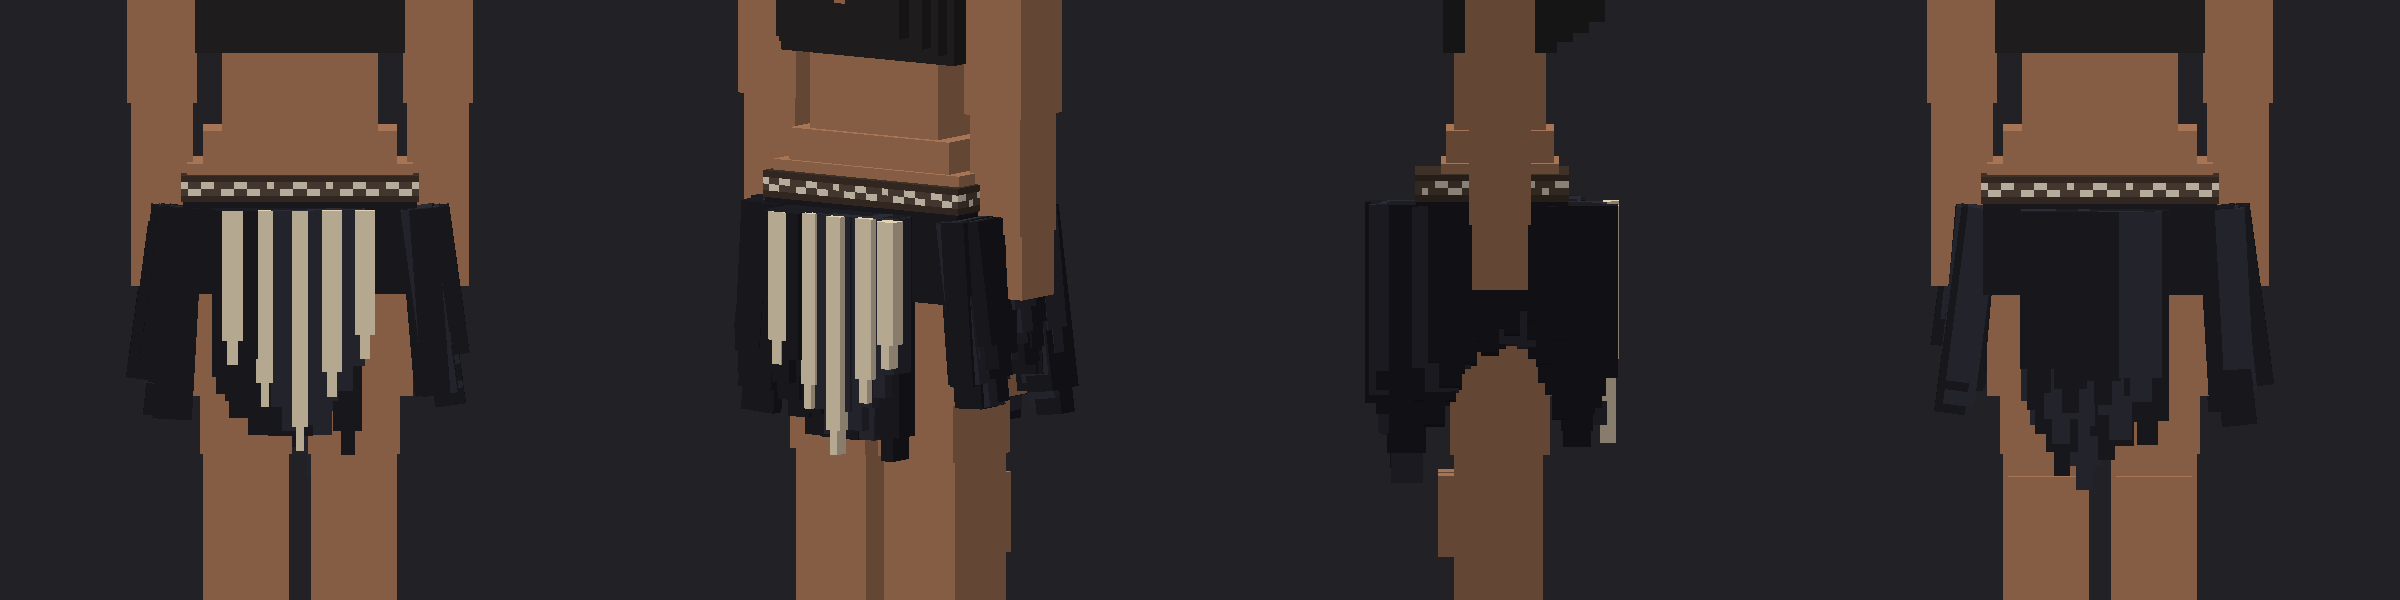
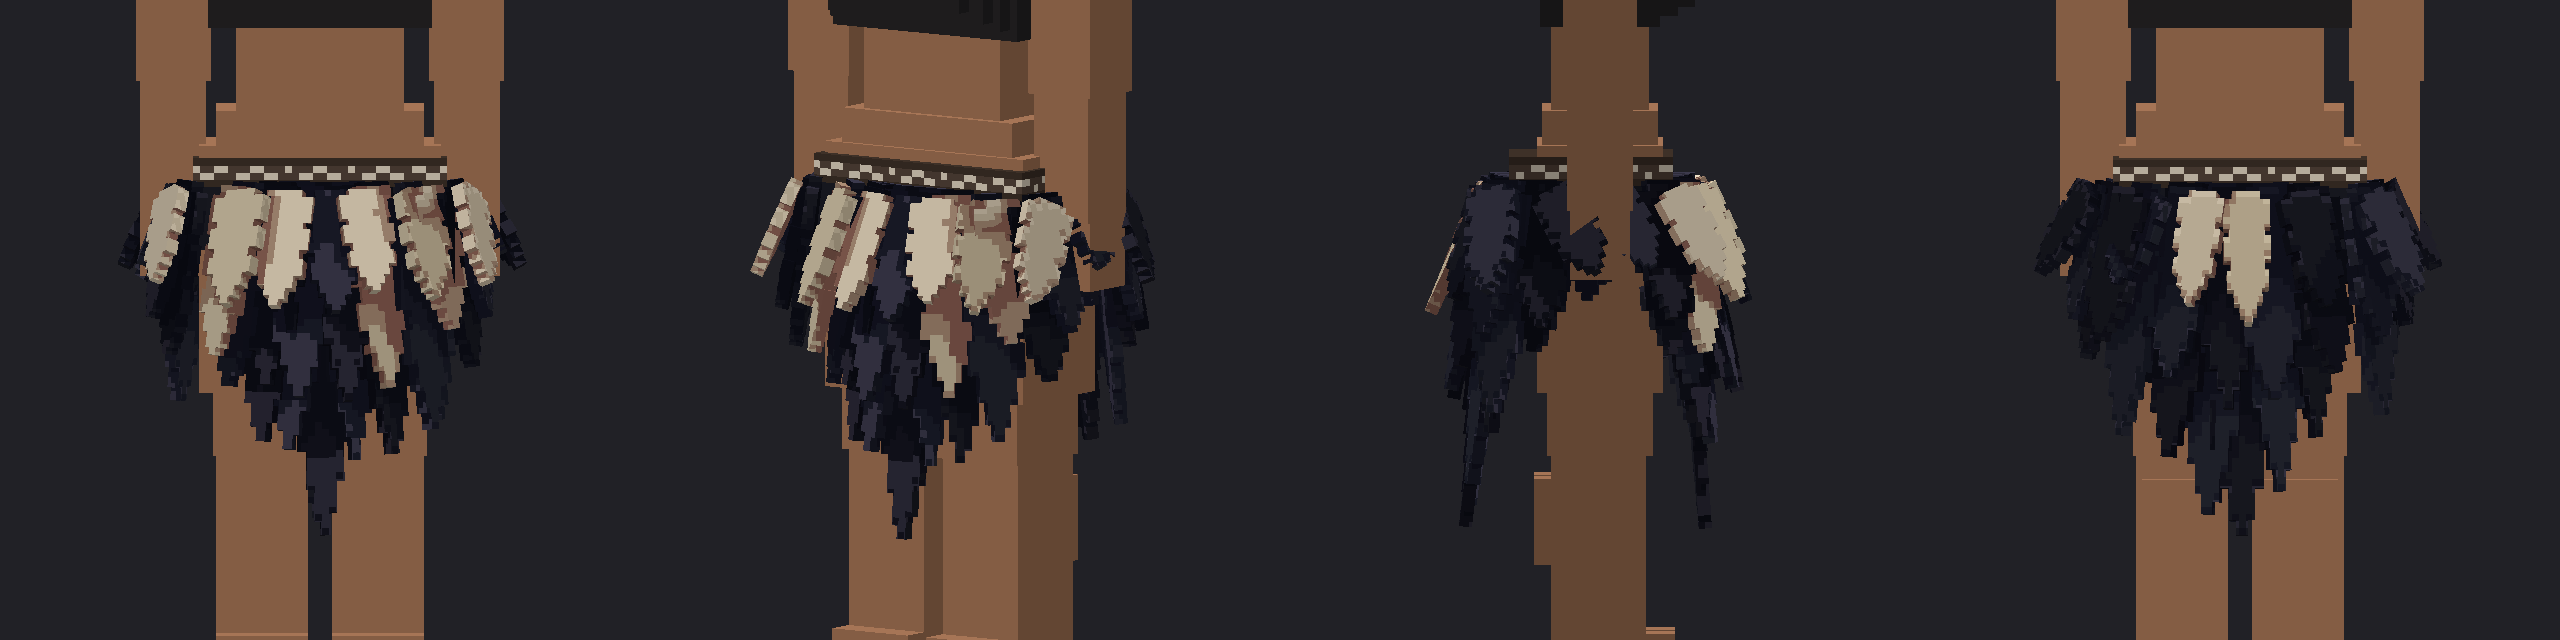
Kemira: falda tribal rehecha con plumas de silueta escalonada en tres hileras
Claude-Session: https://claude.ai/code/session_01JLSuk79QgXUucDMTiBYitK

diff --git a/taller/personajes/kemira.py b/taller/personajes/kemira.py
@@ -279,72 +279,89 @@ def ropa(p, L):
     falda(p, L)
 
 
-CARBON, GRIS_OSCURO, BEIGE = "#1D1D24", "#2C2C36", "#E3D2B4"
+OSCUROS = ("#1C1D26", "#272935")                               # negro azulado de la hoja, en dos tonos
+BEIGES = ("#E0D0B4", "#D2C1A3")
+CARBON = OSCUROS[0]
+
+# silueta de una pluma: (desde que fraccion del largo, medio ancho / ancho), de arriba hacia la punta.
+# Cada tramo es recto y entre tramos hay un escalon: bordes de pixel, con muescas a los costados.
+NIVELES = ((0.00, 0.30), (0.06, 0.50), (0.28, 0.38), (0.34, 0.50), (0.52, 0.36), (0.60, 0.44), (0.74, 0.30),
+           (0.85, 0.18), (0.94, 0.08))
+
+
+def perfil_pluma(ancho, largo, k):
+    """Contorno 2D (x, y) de una pluma colgando desde (0, 0) hasta la punta en (0, -largo), con escalones. Los
+    dos lados tienen las muescas un poco corridas (k), asi ninguna pluma es igual a otra."""
+    lados = []
+    for s in (1, -1):
+        corre = 0.05 * (_azar(k * 2 + (s > 0) + 2000) - 0.5)
+        pts = []
+        niveles = [(f if i in (0, 1) else min(0.97, f + corre), hw) for i, (f, hw) in enumerate(NIVELES)]
+        for i, (f, hw) in enumerate(niveles):
+            f2 = niveles[i + 1][0] if i + 1 < len(niveles) else 1.0
+            pts += [(s * hw * ancho, -f * largo), (s * hw * ancho, -f2 * largo)]
+        lados.append(pts)
+    derecha, izquierda = lados
+    return derecha + [(0.0, -largo)] + izquierda[::-1]
+
+
+def pluma_3d(base, ancho, largo, k, angulo, abre, abanico=0.0, grosor=0.45):
+    """Malla de una pluma: el contorno extruido (grosor), colgando desde 'base'. angulo: donde esta alrededor de la
+    cadera (180 adelante, 0 atras, 90 a su derecha); abre: cuanto se separa la punta del cuerpo; abanico: giro en
+    su propio plano (las de arriba en las caderas se abren en abanico)."""
+    from .. import malla as geo
+    m = geo.extruir(perfil_pluma(ancho, largo, k), -grosor / 2, grosor / 2)
+    if abanico:
+        m = geo.girar(m, (0, 0, abanico))
+    m = geo.girar(m, (abre, angulo - 180, 0))
+    return geo.mover(m, base)
+
+
+def borde_cadera(t):
+    """Punto del borde del cinturon y su angulo para t de 0 a 1 (vuelta entera: empieza adelante al medio)."""
+    ang = 180 + 360 * t
+    a = math.radians(ang)
+    sx, sz = math.sin(a), math.cos(a)
+    r = 1.0 / max(abs(sx) / 4.45, abs(sz) / (3.2 if sz > 0 else 2.6))      # rectangulo de la cadera
+    return (r * sx, r * sz), ang
 
 
 def falda(p, L):
-    """Falda tribal de plumas como la guia: cinturon de cuero con triangulos; base oscura de 3 a 4 de alto con el
-    borde roto; muchas tiras oscuras (carbon y gris) alrededor de toda la cadera en tres profundidades, largas al
-    centro de adelante y de atras, cortas a los costados y algo abiertas hacia afuera, con punta escalonada; plumas
-    beige mas finas mezcladas sobre todo al frente. La silueta es irregular: no es un cono ni termina recta."""
+    """Falda tribal de plumas como la hoja y la guia: cinturon de cuero con triangulos y una base oscura; debajo,
+    tres hileras de plumas con silueta escalonada (anchas, con muescas, en punta) que se enciman: atras las negras
+    largas, que bajan en punta al centro de adelante y de atras; al medio, medianas negras y beige; arriba, cortas
+    que en las caderas se abren en abanico. Las beige van por delante, sobre todo al frente. A los costados son mas
+    cortas y dejan ver el muslo."""
     g = "Body/falda"
     color_ = lambda col: (lambda t: hex_(col))
     p.caja(g, "cinturon", (-4.4, L + 0.8, -2.55), (4.4, L + 1.8, 3.15), tejido, dens=D, luz=False)
-    p.caja(g, "base", (-4.35, L - 2.6, -2.5), (4.35, L + 0.8, 3.1), color_(CARBON), dens=D, luz=False)
-
-    def tira(nombre, x, z, ancho, grueso, largo, col, de_lado, abre=0.0):
-        """Tira colgante con punta escalonada. de_lado: el ancho va en Z (tiras de los costados)."""
-        y1 = L + 0.6
-        sx, sz = (grueso, ancho) if de_lado else (ancho, grueso)
-        rot = (abre, 0, 0) if de_lado and False else ((0, 0, abre) if de_lado else (0, 0, 0))
-        p.caja(g, nombre, (x - sx / 2, y1 - largo, z - sz / 2), (x + sx / 2, y1, z + sz / 2), color_(col),
-               rot=rot, piv=(x, y1, z), dens=D, luz=False)
-        px, pz = (sx, sz * 0.5) if de_lado else (sx * 0.5, sz)
-        p.caja(g, nombre + "_p", (x - px / 2, y1 - largo - 0.9, z - pz / 2), (x + px / 2, y1 - largo, z + pz / 2),
-               color_(col), rot=rot, piv=(x, y1, z), dens=D, luz=False)
-
+    p.caja(g, "base", (-4.3, L - 1.4, -2.45), (4.3, L + 0.8, 3.05), color_(CARBON), dens=D, luz=False)
+    y0 = L + 1.0
+    hileras = (                                                    # (cuantas, fuera, largo centro, largo costado, abre, beige)
+        (22, 0.05, 11.0, 4.4, 4, 0.0),
+        (18, 0.40, 7.4, 3.8, 10, 0.45),
+        (16, 0.75, 4.4, 3.0, 20, 0.5),
+    )
     k = 0
-    for capa in range(3):
-        n = 34 - 6 * capa
+    for h, (n, fuera, l_centro, l_lado, abre, beige) in enumerate(hileras):
         for i in range(n):
-            a = 2 * math.pi * (i + 0.5 * capa + 0.35 * _azar(k + 1100)) / n
-            ca, sa = math.cos(a), math.sin(a)                       # a = 0 atras, pi adelante
-            de_lado = abs(sa) * 4.4 > abs(ca) * 2.8
-            fuera = 0.35 + 0.4 * capa
-            if de_lado:
-                x = math.copysign(4.3 + 0.25 * capa, sa)
-                z = max(-2.2, min(2.8, 2.9 * ca))
-            else:
-                x = max(-4.1, min(4.1, 4.4 * sa))
-                z = (3.1 + fuera) if ca > 0 else (-2.5 - fuera)
-            if capa == 2 and not de_lado and ca < 0 and abs(x) < 1.9:   # hueco al frente para las beige
+            t = (i + 0.5 * h + 0.3 * _azar(k + 2100)) / n
+            (x, z), ang = borde_cadera(t)
+            a = math.radians(ang)
+            centro = abs(math.cos(a)) ** 1.6                      # 1 al centro de adelante/atras, 0 a los costados
+            if h == 0 and centro < 0.08 and i % 2:                # aberturas a los costados
                 continue
-            centro = abs(ca) ** 2
-            largo = 2.8 + 1.8 * _azar(k + 1150) + 4.5 * centro * (1 - 0.5 * capa / 2) + 0.6 * (ca > 0)
-            col = GRIS_OSCURO if _azar(k + 1200) < 0.35 else CARBON
-            abre = math.copysign(3 + 5 * _azar(k + 1250), sa) if de_lado else 0.0
-            tira(f"tira{k}", x, z, 1.0 + 1.0 * _azar(k + 1300), 1.0 + 0.5 * _azar(k + 1350), largo, col, de_lado, abre)
+            largo = l_lado + (l_centro - l_lado) * centro + (2.6 if h == 0 else 1.2) * (_azar(k + 2200) - 0.5)
+            adelante = math.cos(a) < 0
+            es_beige = _azar(k + 2300) < beige * ((1.5 if centro > 0.3 else 0.9) if adelante else 0.45)
+            col = BEIGES[k % 2] if es_beige else OSCUROS[k % 2]
+            # las de la hilera de arriba en las caderas se abren en abanico hacia el costado
+            abanico = -math.sin(a) * (25 + 15 * _azar(k + 2400)) * (1 - centro) if h == 2 else 0.0
+            base = (x + math.sin(a) * fuera, y0 - 0.15 * h, z + math.cos(a) * fuera)
+            ancho = 2.0 + 0.6 * _azar(k + 2500) - 0.2 * h
+            malla = pluma_3d(base, ancho, largo, k, ang, abre + 4 * _azar(k + 2600), abanico)
+            p.malla(g, f"pluma{h}_{k}", malla, color_(col), dens=D)
             k += 1
-    # plumas beige, mas finas, sobre todo al frente y mezcladas entre las oscuras
-    for i, (x, largo, prof) in enumerate(((0.0, 8.0, 1.5), (-1.2, 6.0, 1.3), (1.3, 6.4, 1.3), (-2.4, 4.6, 1.6),
-                                           (2.5, 4.8, 1.6), (-0.6, 3.6, 1.0), (0.7, 3.9, 1.0))):
-        tira(f"beige{i}", x, -2.5 - prof, 0.6 + 0.4 * _azar(i + 1400), 0.6, largo, BEIGE, False)
-    for i, x in enumerate((-1.6, 0.2, 1.9)):
-        tira(f"beige_atras{i}", x, 3.1 + 1.3, 0.7, 0.6, 4.2 + 1.5 * (i == 1), BEIGE, False)
-
-
-BLANCO_PURO, NEGRO_PURO = "#FFFFFF", "#141414"
-
-
-def pluma_plana(col):
-    """Pluma 2D de color puro: un plano recortado con la punta hacia abajo (se angosta en el ultimo tramo)."""
-    def p(t):
-        f = (t.j + 0.5) / t.th                                       # 0 arriba, 1 en la punta de abajo
-        u = abs((t.i + 0.5) / t.tw * 2 - 1)
-        if u > 1.0 - max(0.0, f - 0.55) / 0.45:
-            return TRANSPARENTE
-        return hex_(col)
-    return p
 
 
 def construir():
